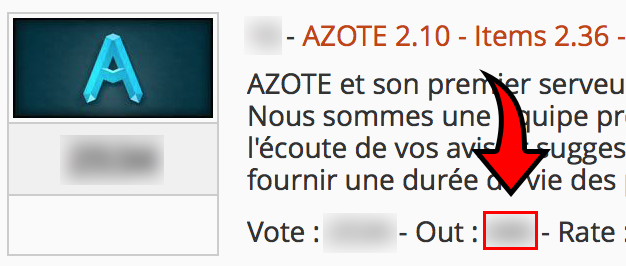
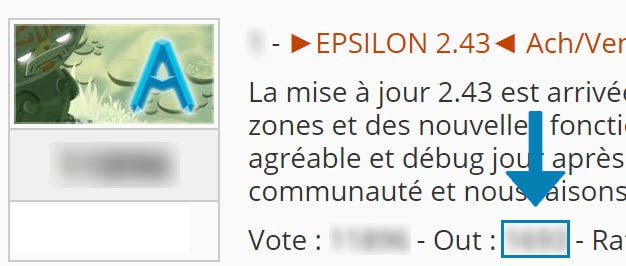
- Add servers and versions automaticly

diff --git a/api/resources/views/DOFUS/vote/confirm.blade.php b/api/resources/views/DOFUS/vote/confirm.blade.php
@@ -44,7 +44,7 @@
                     {!! Form::close() !!}
                 </div>
                 <div class="col-sm-6">
-                    <p>Pour obtenir vos Ogrines vous devez récupérer la valeur OUT sur une des deux lignes « EPSILON 2.40 » ou « SIGMA 2.10 » et la reporter dans le formulaire:</p>
+                    <p>Pour obtenir vos Ogrines vous devez récupérer la valeur OUT sur une des lignes: @foreach(config('dofus.servers') as $k => $server) « {{strtoupper($server)}} {{config('dofus.details')[$server]->version}} » @if(($k == 0) || ($k % 2 == 0)) ou @endif @endforeach et la reporter dans le formulaire</p>
                     <img src="{{ URL::asset('imgs/help/out.jpg') }}" alt="Valeur OUT" width="300px">
                 </div>
             </div>

diff --git a/api/resources/views/DOFUS/rss/news.blade.php b/api/resources/views/DOFUS/rss/news.blade.php
@@ -3,7 +3,7 @@
     <channel>
         <title>{{ config('dofus.title') }} - {{ config('dofus.subtitle') }}</title>
         <link>{{ url('/') }}</link>
-        <description>{{ config('dofus.title') }} Serveurs Dofus 2.10 & 2.35</description>
+        <description>{{ config('dofus.title') }} Serveurs Dofus @foreach(config('dofus.servers') as $k => $server){{config('dofus.details')[$server]->version}}@if(($k == 0) || ($k % 2 == 0)) &@endif @endforeach</description>
         @foreach ($posts as $post)
         <item>
             <title>{{ $post->title }}</title>
